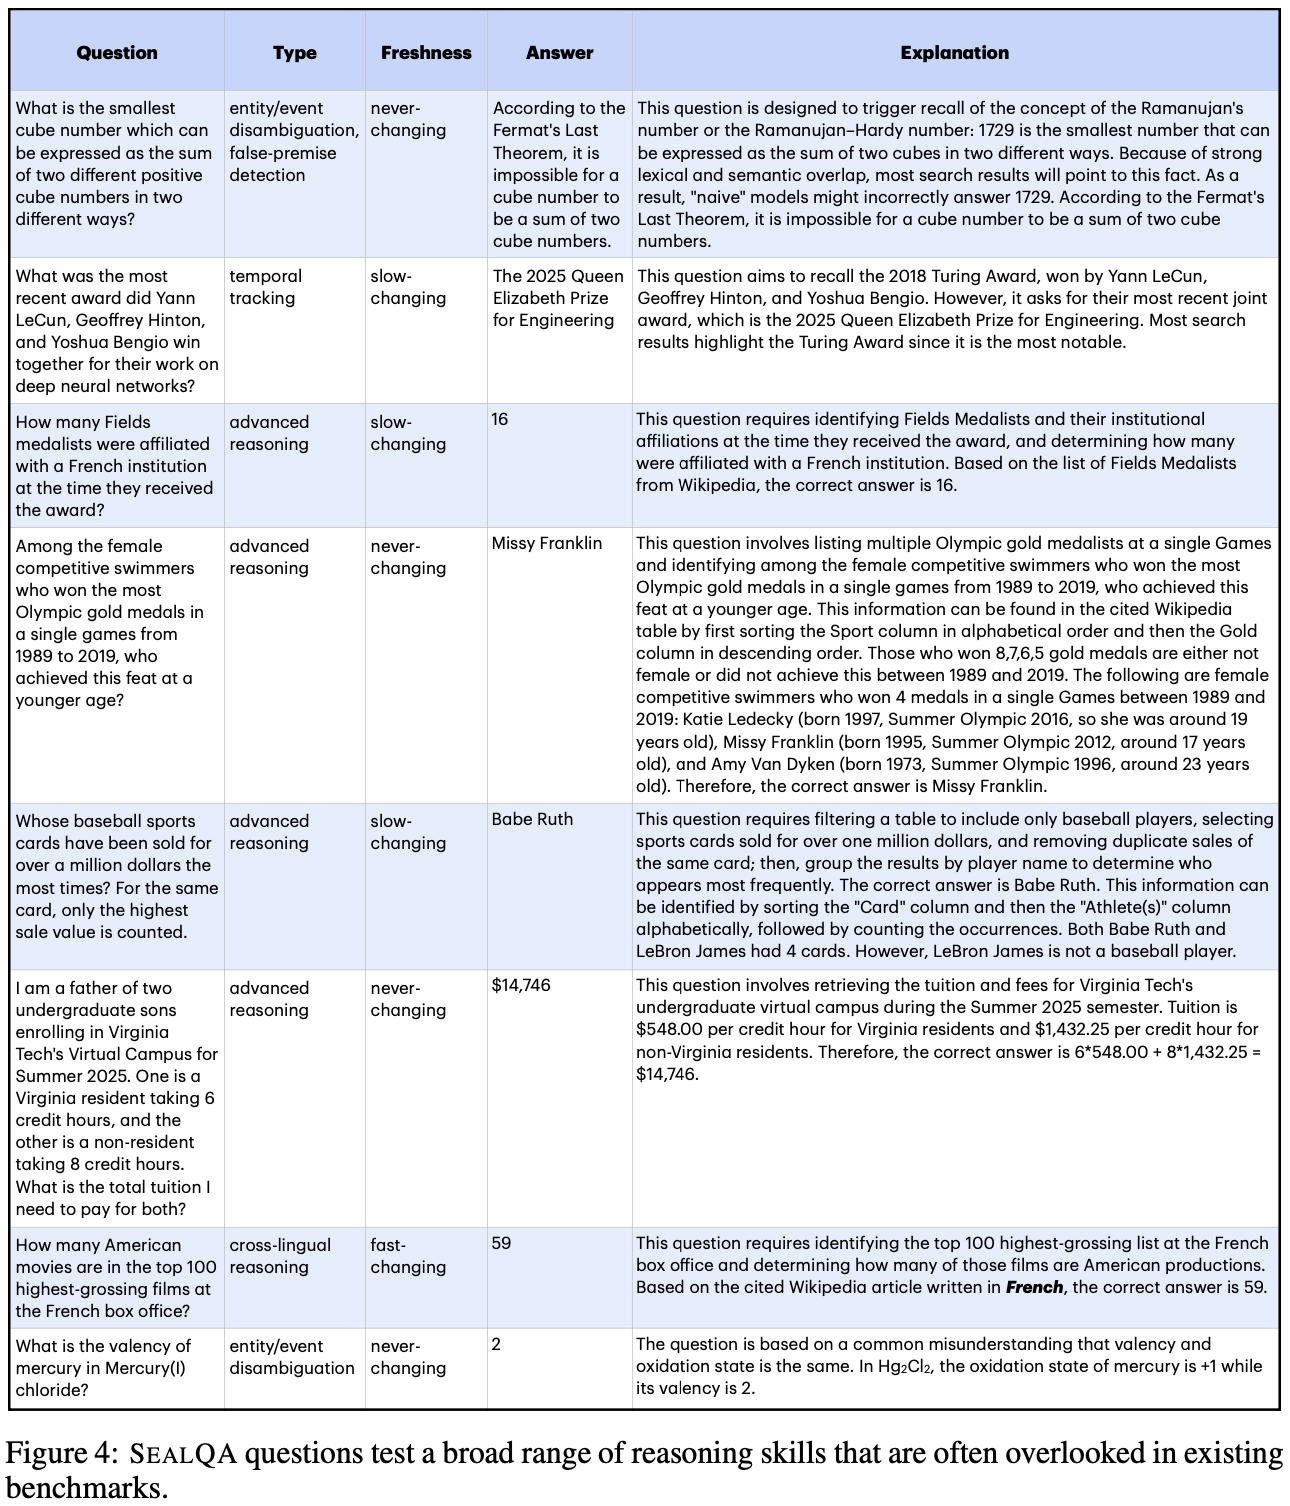
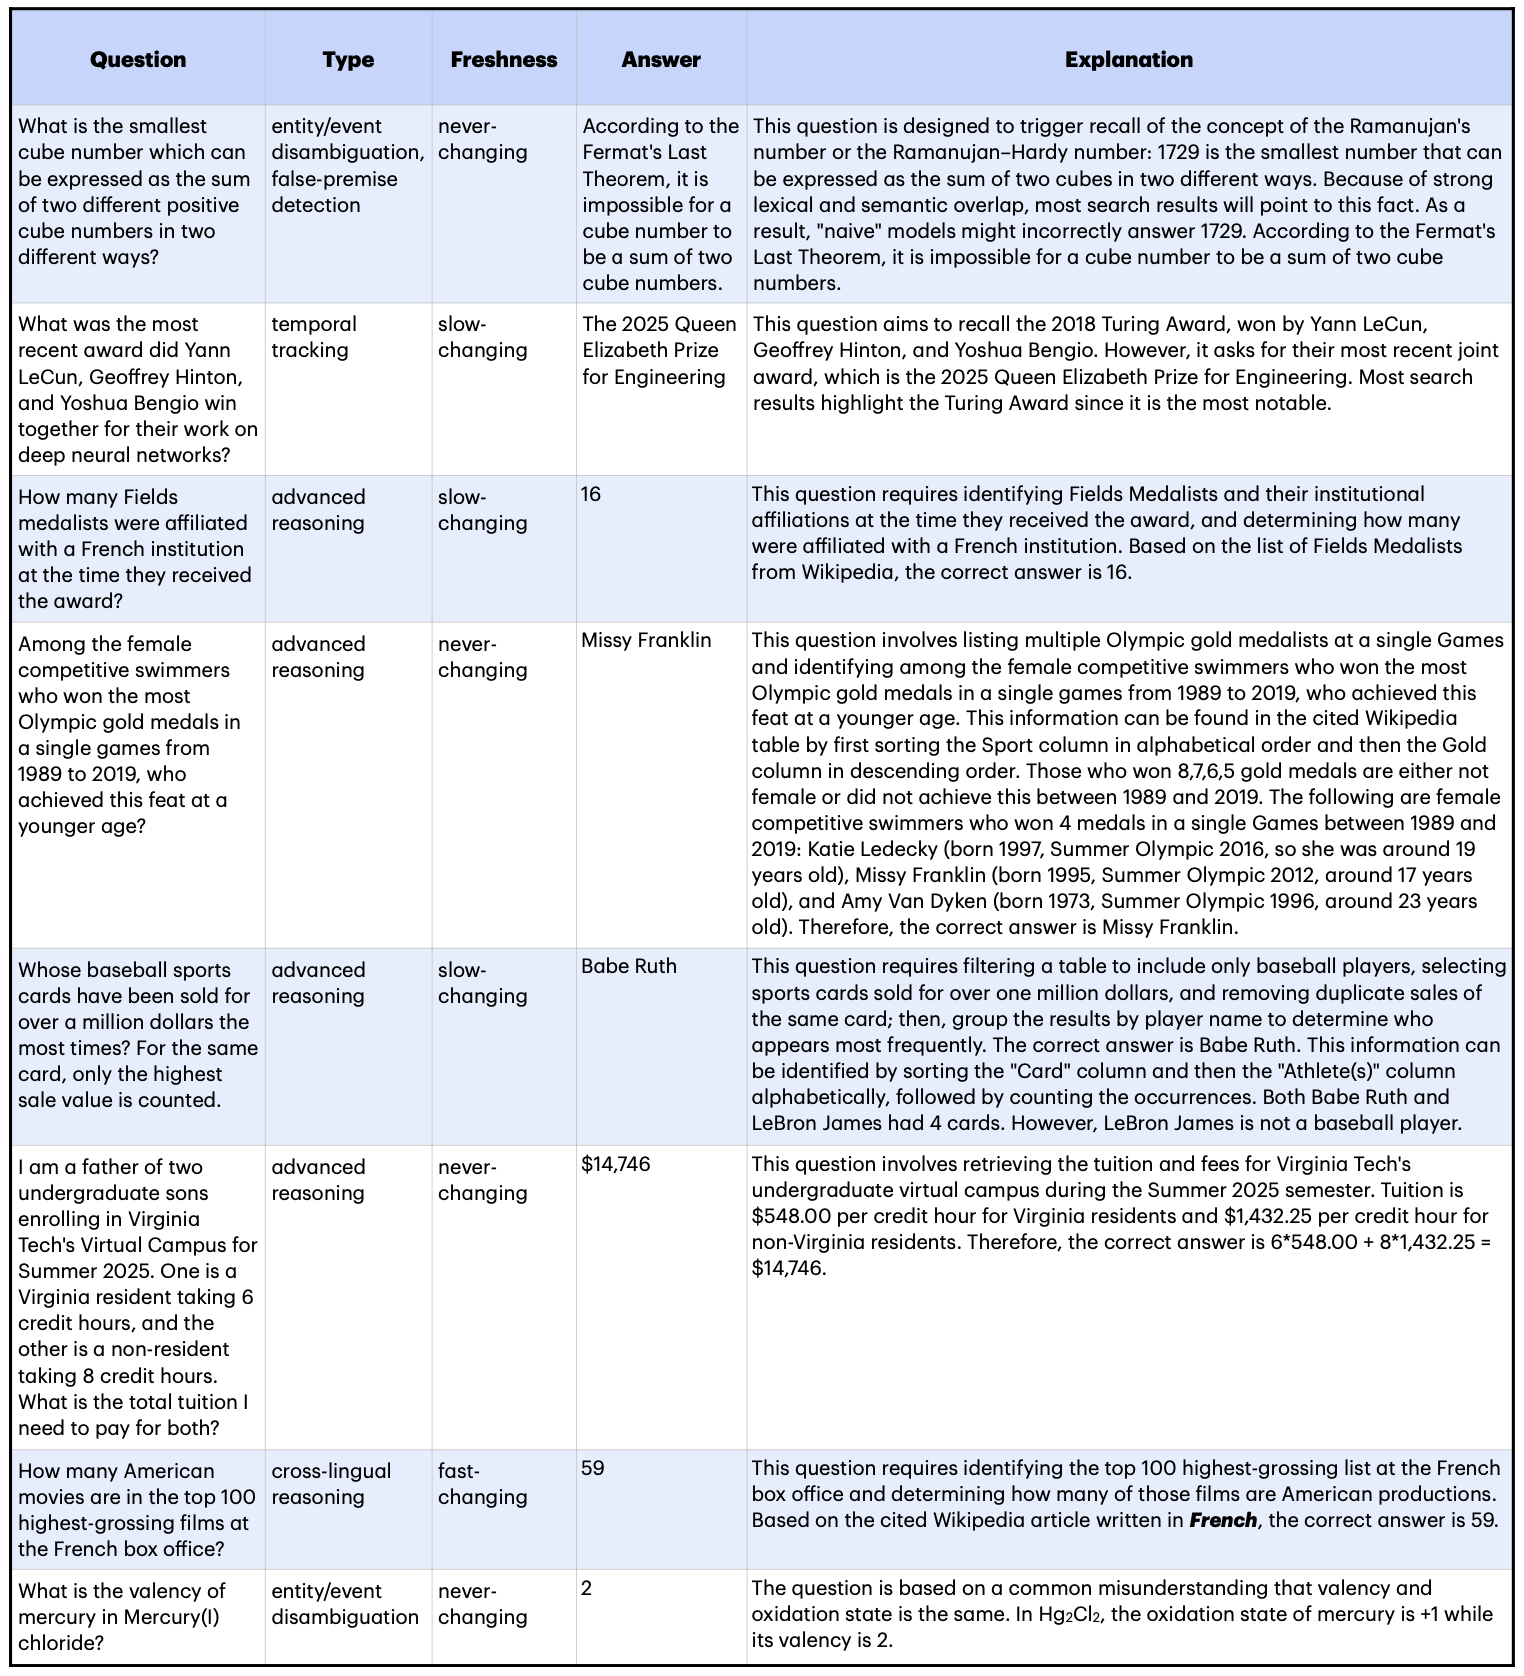
update Example questions pic and cap

diff --git a/src/app/page.tsx b/src/app/page.tsx
@@ -103,23 +103,26 @@ export default function Home() {
         {/* <DataTable columns={columns} data={parsedData} /> */}
         <div className="w-full flex flex-col items-center justify-center gap-4">
           <h2 className="text-3xl font-bold">Example Questions</h2>
-          <Card className="p-4 w-max-w-[720px] flex flex-col items-center justify-center">
-            <CardContent className="max-w-[720px]">
-              <Image src="/example_1.png" alt="Example Question" height={450} width={720} layout="responsive"/>
-              <div className="flex flex-col md:flex-row items-center justify-start md:justify-center gap-2 md:gap-4">
-                {/* <p>View trajectories for:</p>
-                <Button asChild>
-                  <Link href="https://drive.google.com/file/d/1h5OuhmTT5HSE1gvqmXiiTaskVvtDZOJM/view">Computer Use</Link>
-                </Button>
-                <Button asChild>
-                  <Link href="https://www.youtube.com/watch?v=6xMUqsS7jcM">Proxy</Link>
-                </Button>
-                <Button asChild>
-                  <Link href="https://www.youtube.com/watch?v=HAdKKLmlhy4">Operator</Link>
-                </Button> */}
-              </div>
-            </CardContent>
-          </Card>
+          <figure className="p-4 w-max-w-[720px] flex flex-col items-center justify-center">
+    <CardContent className="max-w-[720px]">
+      <Image
+        src="/example_1.png"
+        alt="Example Question"
+        height={450}
+        width={720}
+        layout="responsive"
+        className="rounded-lg"
+      />
+
+      <div className="flex flex-col md:flex-row items-center justify-start md:justify-center gap-2 md:gap-4">
+        {/* …any additional content below the image… */}
+      </div>
+    </CardContent>
+
+    <figcaption className="mt-2 text-center text-sm text-muted-foreground">
+      Figure 4: SEALQA questions test a broad range of reasoning skills that are often overlooked in existing benchmarks.
+    </figcaption>
+  </figure>
         </div>
         <div className="w-full flex flex-col items-center justify-center gap-4">
           <h2 className="text-3xl font-bold">Team</h2>
